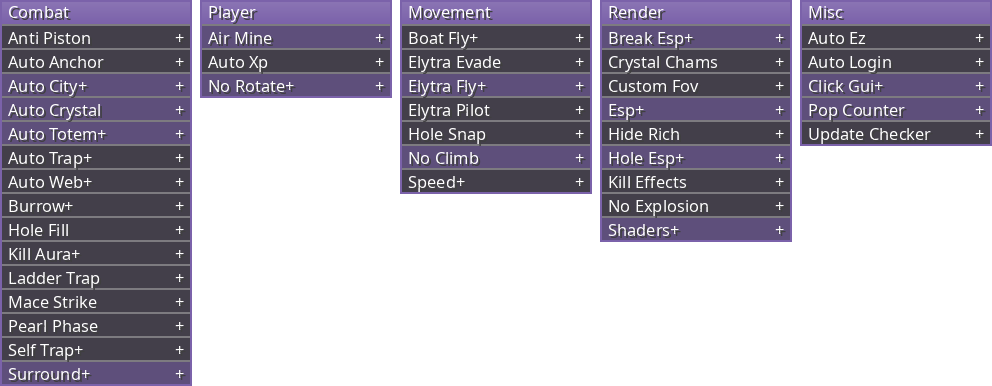
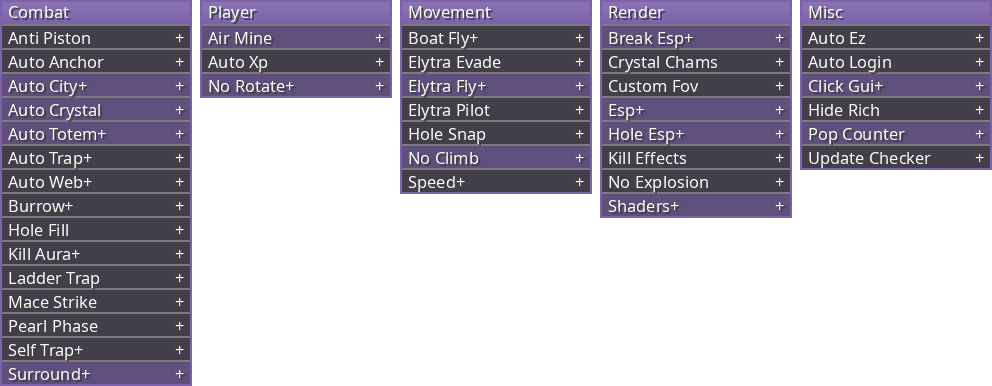
hide rich moves to the misc panel

Changed region(s): [[0.5938, 0.2487, 1.0, 0.6528]]

diff --git a/src/main/java/dev/coyduck/gui/CoyGuiScreen.java b/src/main/java/dev/coyduck/gui/CoyGuiScreen.java
@@ -107,7 +107,7 @@ public class CoyGuiScreen extends Screen {
         Map.entry("speed+", "Movement"), Map.entry("no-climb", "Movement"), Map.entry("elytra-evade", "Movement"),
         Map.entry("boat-fly+", "Movement"),
         Map.entry("break-esp+", "Render"), Map.entry("crystal-chams", "Render"), Map.entry("custom-fov", "Render"),
-        Map.entry("esp+", "Render"), Map.entry("hide-rich", "Render"), Map.entry("hole-esp+", "Render"),
+        Map.entry("esp+", "Render"), Map.entry("hole-esp+", "Render"),
         Map.entry("kill-effects", "Render"), Map.entry("no-explosion", "Render"), Map.entry("shaders+", "Render"),
         Map.entry("schem-builder", "World")
     );
